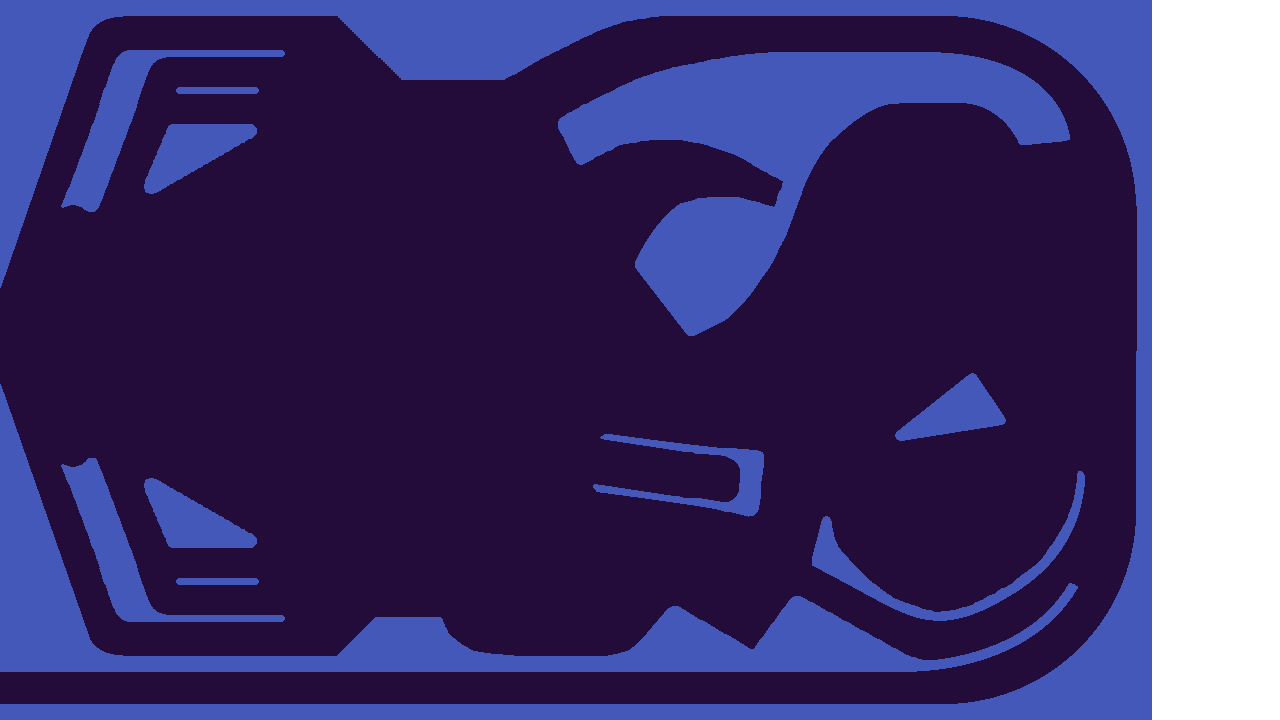
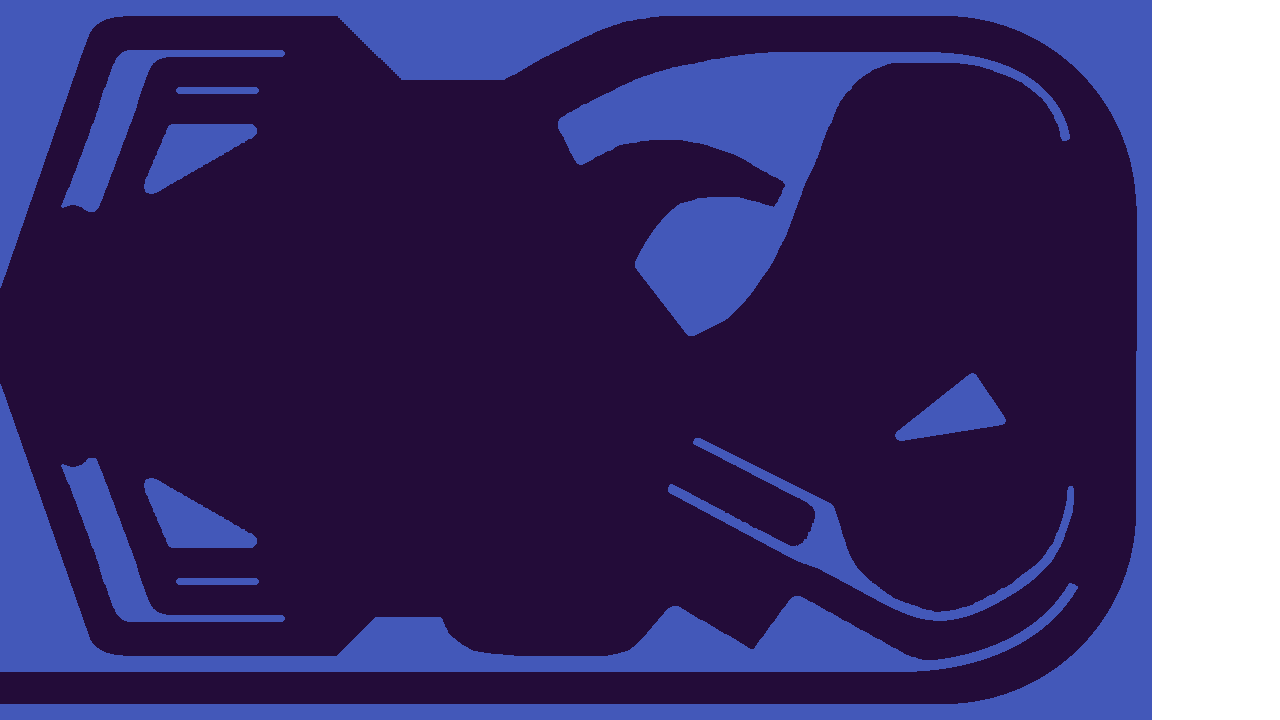
move right ramp to better location

diff --git a/games/pinball/source/layer.h b/games/pinball/source/layer.h
@@ -30,10 +30,9 @@ class Layer {
 
         // Main table layer
         vector<float> m_launchExitLock = {1068.0, 585.4, 1066.8, 586.9, 1067.2, 589.2, 1067.5, 591.5, 1087.9, 606.2, 1108.4, 621.0, 1110.6, 621.0, 1112.8, 621.0, 1114.0, 619.6, 1115.2, 618.1, 1114.8, 615.8, 1114.5, 613.5, 1094.1, 598.8, 1073.6, 584.0, 1071.4, 584.0, 1069.2, 584.0, 1068.0, 585.4};
-        vector<float> m_upperWall = {759.0, 53.1, 749.5, 53.9, 741.5, 55.0, 733.5, 56.0, 724.0, 57.6, 714.5, 59.1, 707.5, 60.6, 700.5, 62.1, 696.5, 63.0, 692.5, 63.9, 683.0, 65.5, 673.5, 67.2, 667.0, 69.2, 660.5, 71.1, 649.5, 74.6, 638.5, 78.2, 634.0, 80.2, 629.5, 82.2, 607.3, 93.1, 585.2, 104.0, 584.2, 104.0, 580.9, 105.8, 578.5, 107.7, 574.0, 110.0, 569.5, 112.4, 564.4, 115.7, 559.2, 119.0, 558.6, 120.6, 558.0, 122.2, 558.0, 125.4, 558.0, 128.6, 560.8, 133.1, 563.6, 137.5, 567.0, 145.0, 570.4, 152.5, 573.7, 158.2, 577.1, 164.0, 579.5, 164.6, 581.9, 165.2, 588.2, 161.7, 594.5, 158.2, 601.5, 154.8, 608.5, 151.3, 611.0, 150.1, 613.5, 149.0, 616.6, 147.0, 619.7, 145.0, 629.1, 143.5, 638.5, 142.0, 646.4, 140.9, 654.2, 139.8, 669.9, 140.3, 685.5, 140.7, 694.4, 142.4, 703.3, 144.2, 718.9, 149.4, 734.5, 154.7, 740.0, 157.5, 745.5, 160.3, 750.5, 163.6, 755.5, 166.8, 762.0, 170.4, 768.5, 174.0, 775.7, 177.6, 782.9, 181.2, 782.3, 184.4, 781.7, 187.5, 779.3, 191.9, 777.0, 196.3, 777.0, 198.2, 777.0, 200.1, 775.6, 203.5, 774.1, 206.9, 767.3, 204.9, 760.5, 202.9, 749.1, 200.0, 737.8, 197.0, 723.6, 197.1, 709.5, 197.1, 703.0, 198.0, 696.5, 198.9, 688.1, 201.3, 679.7, 203.6, 673.5, 208.7, 667.3, 213.8, 661.2, 220.9, 655.1, 227.9, 650.1, 235.3, 645.1, 242.8, 640.1, 252.2, 635.0, 261.7, 635.0, 264.6, 635.0, 267.5, 661.3, 301.5, 687.5, 335.5, 690.7, 335.8, 693.9, 336.1, 710.8, 327.6, 727.7, 319.0, 738.2, 308.2, 748.6, 297.4, 753.5, 290.4, 758.3, 283.5, 764.4, 275.0, 770.5, 266.5, 778.3, 251.0, 786.2, 235.5, 794.1, 214.0, 802.1, 192.5, 803.7, 188.0, 805.2, 183.5, 810.9, 172.5, 816.5, 161.5, 821.5, 154.0, 826.5, 146.6, 832.5, 140.6, 838.5, 134.7, 846.5, 128.0, 854.5, 121.3, 860.5, 117.3, 866.5, 113.3, 872.5, 110.2, 878.5, 107.2, 884.0, 105.5, 889.5, 103.7, 927.0, 103.3, 964.5, 102.8, 972.0, 104.4, 979.5, 106.0, 986.5, 109.5, 993.5, 112.9, 999.2, 117.5, 1004.9, 122.1, 1010.0, 128.8, 1015.0, 135.5, 1017.1, 139.8, 1019.3, 144.2, 1020.8, 144.8, 1022.3, 145.3, 1040.9, 143.6, 1059.5, 141.9, 1064.8, 140.9, 1070.0, 139.9, 1070.0, 137.8, 1070.0, 135.8, 1068.4, 129.6, 1066.8, 123.5, 1063.4, 116.2, 1060.0, 108.8, 1055.6, 102.7, 1051.2, 96.5, 1043.9, 89.4, 1036.5, 82.4, 1030.5, 78.3, 1024.5, 74.3, 1016.4, 70.2, 1008.3, 66.2, 997.8, 62.6, 987.2, 59.1, 977.4, 57.1, 967.5, 55.1, 959.5, 53.9, 951.5, 52.7, 860.0, 52.5, 768.5, 52.2, 759.0, 53.1};
-        vector<float> m_upperWall2 = {602.1, 435.8, 599.7, 437.7, 601.0, 438.5, 602.2, 439.3, 640.4, 445.1, 678.5, 451.0, 686.5, 452.0, 694.5, 453.0, 709.7, 454.4, 724.9, 455.8, 730.2, 458.7, 735.4, 461.5, 737.8, 465.0, 740.2, 468.5, 739.6, 479.9, 739.0, 491.4, 737.2, 494.4, 735.4, 497.5, 732.0, 499.7, 728.7, 502.0, 725.6, 502.0, 722.5, 502.0, 711.0, 500.0, 699.5, 498.0, 692.3, 498.0, 685.0, 498.0, 680.8, 497.0, 676.5, 496.0, 635.7, 490.0, 594.9, 484.0, 593.9, 484.5, 593.0, 485.1, 593.0, 486.3, 593.1, 487.5, 594.9, 489.8, 596.8, 492.0, 626.3, 496.0, 655.9, 500.0, 680.2, 503.5, 704.5, 507.1, 714.0, 509.1, 723.5, 511.2, 728.5, 512.0, 733.5, 512.8, 740.0, 514.5, 746.5, 516.2, 750.0, 516.1, 753.4, 516.0, 755.8, 513.6, 758.3, 511.2, 759.6, 504.3, 760.9, 497.5, 761.0, 490.5, 761.0, 483.5, 762.5, 474.5, 764.0, 465.5, 764.0, 460.0, 764.0, 454.5, 763.2, 453.3, 762.5, 452.1, 759.8, 451.1, 757.2, 450.1, 740.3, 449.0, 723.5, 447.9, 700.0, 445.4, 676.5, 442.9, 646.5, 438.9, 616.5, 435.0, 610.5, 434.4, 604.5, 433.9, 602.1, 435.8};
-        vector<float> m_upperWall3 = {1077.6, 473.2, 1077.2, 475.5, 1076.0, 485.0, 1074.8, 494.5, 1073.0, 501.0, 1071.2, 507.5, 1068.7, 514.2, 1066.2, 520.8, 1059.1, 532.7, 1051.9, 544.5, 1047.2, 551.2, 1042.5, 557.9, 1040.0, 560.6, 1037.5, 563.3, 1027.5, 570.7, 1017.5, 578.2, 1014.5, 581.0, 1011.5, 583.7, 1007.9, 585.8, 1004.3, 588.0, 1002.9, 588.0, 1001.5, 588.0, 998.0, 590.8, 994.5, 593.7, 991.2, 594.8, 987.9, 595.9, 985.2, 597.8, 982.5, 599.7, 979.0, 601.0, 975.5, 602.3, 974.0, 603.6, 972.5, 604.9, 964.5, 607.1, 956.5, 609.2, 952.0, 610.1, 947.5, 611.0, 940.5, 611.2, 933.5, 611.4, 927.5, 609.8, 921.5, 608.2, 910.5, 604.2, 899.5, 600.3, 896.8, 599.2, 894.1, 598.1, 887.3, 593.3, 880.5, 588.6, 878.0, 586.3, 875.5, 584.0, 865.8, 576.2, 857.7, 568.5, 848.4, 558.2, 839.1, 547.9, 837.0, 543.2, 834.9, 538.5, 833.3, 530.5, 831.7, 522.5, 830.8, 519.8, 829.8, 517.1, 828.0, 516.5, 826.3, 516.0, 824.7, 516.5, 823.2, 517.1, 822.1, 519.8, 821.1, 522.5, 816.5, 540.1, 812.0, 557.8, 812.0, 561.6, 812.0, 565.5, 818.3, 568.7, 824.5, 572.0, 857.8, 589.9, 891.1, 607.8, 901.2, 612.0, 911.2, 616.1, 918.8, 618.2, 926.5, 620.3, 939.5, 620.3, 952.5, 620.3, 962.0, 617.7, 971.5, 615.2, 980.1, 611.6, 988.6, 608.0, 999.6, 601.9, 1010.5, 595.8, 1019.0, 590.2, 1027.4, 584.6, 1036.2, 577.2, 1045.0, 569.9, 1051.5, 562.2, 1058.1, 554.5, 1062.7, 547.5, 1067.3, 540.6, 1072.1, 530.5, 1076.9, 520.5, 1079.3, 512.0, 1081.8, 503.5, 1083.4, 494.1, 1085.0, 484.6, 1085.0, 480.0, 1085.0, 475.4, 1083.4, 473.2, 1081.9, 471.0, 1080.0, 471.0, 1078.0, 471.0, 1077.6, 473.2};
-        vector<float> m_upperWall4 = {968.9, 374.8, 966.3, 376.5, 931.2, 404.4, 896.0, 432.3, 895.5, 434.1, 894.9, 435.9, 896.0, 438.0, 897.1, 440.0, 899.3, 440.5, 901.5, 441.1, 951.9, 433.0, 1002.2, 425.0, 1004.4, 423.4, 1006.0, 421.9, 1006.0, 420.4, 1006.0, 419.0, 991.4, 397.2, 976.8, 375.5, 975.2, 374.2, 973.6, 373.0, 972.6, 373.0, 971.5, 373.0, 968.9, 374.8};
+        vector<float> m_upperWall = {759.0, 53.1, 749.5, 53.9, 741.5, 55.0, 733.5, 56.0, 724.0, 57.6, 714.5, 59.1, 707.5, 60.6, 700.5, 62.1, 696.5, 63.0, 692.5, 63.9, 683.0, 65.5, 673.5, 67.2, 667.0, 69.2, 660.5, 71.1, 649.5, 74.6, 638.5, 78.2, 634.0, 80.2, 629.5, 82.2, 607.3, 93.1, 585.2, 104.0, 584.2, 104.0, 580.9, 105.8, 578.5, 107.7, 574.0, 110.0, 569.5, 112.4, 564.4, 115.7, 559.2, 119.0, 558.6, 120.6, 558.0, 122.2, 558.0, 125.4, 558.0, 128.6, 560.8, 133.1, 563.6, 137.5, 567.0, 145.0, 570.4, 152.5, 573.7, 158.2, 577.1, 164.0, 579.5, 164.6, 581.9, 165.2, 588.2, 161.7, 594.5, 158.2, 601.5, 154.8, 608.5, 151.3, 611.0, 150.1, 613.5, 149.0, 616.6, 147.0, 619.7, 145.0, 629.1, 143.5, 638.5, 142.0, 646.4, 140.9, 654.2, 139.8, 669.9, 140.3, 685.5, 140.7, 694.4, 142.4, 703.3, 144.2, 718.9, 149.4, 734.5, 154.7, 740.0, 157.5, 745.5, 160.3, 750.5, 163.6, 755.5, 166.8, 762.0, 170.4, 768.5, 174.0, 775.5, 177.5, 782.5, 181.0, 783.9, 183.1, 785.2, 185.3, 783.5, 188.9, 781.7, 192.5, 779.6, 197.0, 777.5, 201.5, 775.6, 204.1, 773.8, 206.8, 767.1, 204.9, 760.5, 202.9, 749.1, 200.0, 737.8, 197.0, 723.6, 197.1, 709.5, 197.1, 703.0, 198.0, 696.5, 198.9, 688.1, 201.3, 679.7, 203.6, 673.5, 208.7, 667.3, 213.8, 661.2, 220.9, 655.1, 227.9, 650.1, 235.3, 645.1, 242.8, 640.1, 252.2, 635.0, 261.7, 635.0, 264.6, 635.0, 267.5, 661.3, 301.5, 687.5, 335.5, 690.7, 335.8, 693.9, 336.1, 710.8, 327.6, 727.7, 319.0, 738.2, 308.2, 748.6, 297.4, 753.5, 290.4, 758.3, 283.5, 764.4, 275.0, 770.5, 266.5, 778.3, 251.0, 786.2, 235.5, 794.0, 214.5, 801.8, 193.5, 802.5, 191.0, 803.2, 188.5, 809.5, 175.0, 815.8, 161.5, 817.3, 158.0, 818.8, 154.5, 820.9, 148.0, 823.0, 141.5, 825.7, 134.5, 828.3, 127.5, 830.0, 125.0, 831.7, 122.5, 833.0, 118.5, 834.3, 114.5, 837.2, 108.2, 840.1, 101.9, 843.6, 97.0, 847.0, 92.2, 849.5, 90.6, 852.0, 89.0, 852.0, 87.7, 852.0, 86.4, 855.8, 82.8, 859.5, 79.2, 866.2, 74.6, 872.9, 70.1, 880.7, 66.8, 888.5, 63.6, 922.3, 63.2, 956.1, 62.9, 967.1, 64.4, 978.0, 65.9, 985.2, 68.1, 992.5, 70.3, 993.5, 71.0, 994.5, 71.7, 1002.2, 74.3, 1009.8, 77.0, 1015.7, 79.8, 1021.5, 82.5, 1029.1, 88.3, 1036.7, 94.0, 1040.7, 97.9, 1044.7, 101.7, 1049.4, 108.9, 1054.0, 116.1, 1054.0, 117.3, 1054.0, 118.5, 1056.1, 121.9, 1058.2, 125.3, 1059.5, 131.4, 1060.8, 137.5, 1061.5, 139.2, 1062.2, 141.0, 1064.4, 141.0, 1066.6, 141.0, 1068.5, 139.6, 1070.4, 138.3, 1069.1, 132.4, 1067.8, 126.5, 1064.7, 119.1, 1061.7, 111.7, 1056.9, 104.6, 1052.2, 97.5, 1044.3, 89.9, 1036.5, 82.3, 1030.5, 78.3, 1024.5, 74.3, 1016.4, 70.2, 1008.3, 66.2, 997.8, 62.6, 987.2, 59.1, 977.4, 57.1, 967.5, 55.1, 959.5, 53.9, 951.5, 52.7, 860.0, 52.5, 768.5, 52.2, 759.0, 53.1};
+        vector<float> m_upperWall2 = {693.8, 440.5, 692.7, 443.1, 693.6, 443.9, 694.5, 444.7, 722.5, 459.0, 750.5, 473.3, 751.5, 474.0, 752.5, 474.7, 779.5, 488.5, 806.5, 502.3, 809.7, 504.9, 812.9, 507.5, 814.1, 510.3, 815.3, 513.1, 814.6, 517.7, 814.0, 522.4, 813.1, 522.9, 812.2, 523.5, 811.5, 527.3, 810.7, 531.2, 809.5, 531.6, 808.2, 532.1, 807.6, 535.6, 806.9, 539.0, 805.5, 539.0, 804.1, 539.0, 803.5, 540.8, 803.0, 542.7, 800.2, 544.0, 797.5, 545.4, 794.3, 545.7, 791.0, 546.1, 773.5, 537.1, 756.0, 528.0, 754.8, 528.0, 753.5, 527.9, 749.6, 525.0, 745.6, 522.0, 743.9, 522.0, 742.2, 522.0, 741.0, 520.5, 739.8, 519.0, 738.7, 519.0, 737.7, 519.0, 732.8, 516.0, 728.0, 513.0, 726.9, 513.0, 725.9, 513.0, 724.7, 511.9, 723.5, 510.8, 707.5, 502.4, 691.5, 494.0, 681.2, 488.7, 670.9, 483.5, 669.4, 485.5, 667.9, 487.5, 668.2, 490.0, 668.5, 492.5, 698.0, 508.3, 727.5, 524.1, 762.0, 542.5, 796.5, 561.0, 807.5, 564.9, 818.5, 568.8, 837.5, 579.0, 856.5, 589.2, 874.0, 598.6, 891.5, 607.9, 901.3, 612.0, 911.1, 616.1, 918.8, 618.2, 926.5, 620.3, 939.5, 620.3, 952.5, 620.3, 962.0, 617.7, 971.5, 615.2, 980.1, 611.6, 988.6, 608.0, 999.6, 601.9, 1010.5, 595.8, 1020.5, 589.2, 1030.5, 582.5, 1040.8, 572.6, 1051.1, 562.6, 1055.3, 555.6, 1059.4, 548.5, 1061.3, 544.7, 1063.1, 540.9, 1068.1, 526.2, 1073.0, 511.5, 1073.7, 501.4, 1074.3, 491.3, 1073.6, 488.6, 1073.0, 486.0, 1071.0, 486.0, 1069.0, 486.0, 1068.0, 488.6, 1067.0, 491.1, 1067.0, 495.3, 1067.0, 499.5, 1064.6, 509.5, 1062.1, 519.5, 1060.1, 525.4, 1058.0, 531.3, 1057.1, 532.4, 1056.3, 533.5, 1054.8, 538.1, 1053.2, 542.6, 1049.9, 547.4, 1046.5, 552.1, 1042.5, 557.3, 1038.4, 562.5, 1030.0, 568.8, 1021.5, 575.2, 1016.5, 579.4, 1011.5, 583.6, 1007.9, 585.8, 1004.3, 588.0, 1002.9, 588.0, 1001.5, 588.0, 998.0, 590.8, 994.5, 593.7, 991.2, 594.8, 987.9, 595.9, 985.2, 597.8, 982.5, 599.7, 979.0, 601.0, 975.5, 602.3, 974.0, 603.6, 972.5, 604.9, 964.5, 607.1, 956.5, 609.2, 952.0, 610.1, 947.5, 611.0, 940.5, 611.2, 933.5, 611.4, 927.5, 609.8, 921.5, 608.2, 910.5, 604.2, 899.5, 600.3, 896.8, 599.2, 894.1, 598.1, 887.3, 593.3, 880.5, 588.6, 878.0, 586.3, 875.5, 584.0, 865.7, 576.1, 857.4, 568.1, 853.3, 560.8, 849.2, 553.5, 845.7, 543.0, 842.3, 532.5, 838.5, 520.5, 834.8, 508.5, 833.4, 506.2, 831.9, 504.0, 766.0, 471.0, 700.0, 438.0, 697.5, 438.0, 695.0, 438.0, 693.8, 440.5};
+        vector<float> m_upperWall3 = {968.9, 374.8, 966.3, 376.5, 931.2, 404.4, 896.0, 432.3, 895.5, 434.1, 894.9, 435.9, 896.0, 438.0, 897.1, 440.0, 899.3, 440.5, 901.5, 441.1, 951.9, 433.0, 1002.2, 425.0, 1004.4, 423.4, 1006.0, 421.9, 1006.0, 420.4, 1006.0, 419.0, 991.4, 397.2, 976.8, 375.5, 975.2, 374.2, 973.6, 373.0, 972.6, 373.0, 971.5, 373.0, 968.9, 374.8};
         vector<float> m_leftSlide = {125.0, 51.1, 122.5, 52.1, 119.7, 54.8, 116.9, 57.5, 114.5, 62.1, 112.2, 66.7, 108.9, 76.6, 105.7, 86.5, 104.4, 88.5, 103.2, 90.5, 101.5, 96.5, 99.8, 102.5, 99.5, 104.2, 99.1, 105.8, 96.4, 114.2, 93.7, 122.5, 92.8, 123.7, 91.9, 124.8, 89.5, 132.2, 87.2, 139.5, 83.5, 149.0, 79.9, 158.5, 77.5, 165.0, 75.1, 171.5, 72.6, 178.5, 70.0, 185.5, 68.8, 187.5, 67.7, 189.5, 64.3, 198.0, 61.0, 206.4, 61.8, 207.2, 62.6, 208.0, 67.5, 206.3, 72.4, 204.7, 76.6, 205.8, 80.8, 206.9, 84.6, 209.5, 88.3, 212.0, 91.5, 212.0, 94.7, 212.0, 96.7, 209.7, 98.8, 207.5, 100.8, 202.5, 102.9, 197.5, 106.5, 188.0, 110.0, 178.5, 112.5, 172.0, 115.0, 165.5, 118.5, 156.0, 122.0, 146.5, 124.5, 140.0, 127.0, 133.5, 130.5, 124.3, 134.0, 115.0, 136.1, 108.3, 138.2, 101.5, 142.2, 89.5, 146.3, 77.5, 149.0, 71.4, 151.7, 65.3, 154.1, 63.1, 156.5, 60.8, 160.0, 59.1, 163.5, 57.5, 223.4, 57.0, 283.3, 56.5, 284.3, 54.8, 285.4, 53.2, 284.1, 51.6, 282.8, 50.0, 205.1, 50.1, 127.5, 50.1, 125.0, 51.1};
         vector<float> m_rightSlide = {85.2, 461.4, 82.0, 464.8, 77.4, 466.0, 72.8, 467.3, 67.7, 465.7, 62.6, 464.0, 61.8, 464.8, 61.0, 465.6, 64.3, 474.0, 67.7, 482.5, 68.8, 484.5, 70.0, 486.5, 72.6, 493.5, 75.1, 500.5, 77.5, 507.0, 79.9, 513.5, 83.5, 523.0, 87.2, 532.5, 89.5, 539.8, 91.9, 547.2, 92.8, 548.3, 93.7, 549.5, 96.4, 557.8, 99.1, 566.2, 99.5, 567.8, 99.8, 569.5, 101.5, 575.5, 103.2, 581.5, 104.4, 583.5, 105.7, 585.5, 108.9, 595.4, 112.2, 605.3, 114.5, 609.9, 116.9, 614.5, 119.7, 617.2, 122.5, 619.9, 125.3, 620.9, 128.1, 622.0, 205.4, 622.0, 282.8, 622.0, 284.1, 620.4, 285.4, 618.8, 284.3, 617.2, 283.3, 615.5, 223.4, 615.0, 163.5, 614.5, 160.0, 612.9, 156.5, 611.2, 154.1, 608.9, 151.7, 606.7, 149.0, 600.6, 146.3, 594.5, 142.2, 582.5, 138.2, 570.5, 136.1, 563.7, 134.0, 557.0, 130.5, 547.7, 127.0, 538.5, 124.5, 532.0, 122.0, 525.5, 118.5, 516.0, 115.0, 506.5, 112.5, 500.0, 110.0, 493.5, 106.5, 484.0, 102.9, 474.5, 99.6, 466.5, 96.3, 458.5, 92.4, 458.2, 88.5, 458.0, 85.2, 461.4};
         vector<float> m_leftSlideLine = {176.9, 88.6, 175.6, 90.2, 176.7, 91.8, 177.7, 93.5, 217.5, 93.5, 257.3, 93.5, 258.3, 91.8, 259.4, 90.2, 258.1, 88.6, 256.8, 87.0, 217.5, 87.0, 178.2, 87.0, 176.9, 88.6};
@@ -41,14 +40,14 @@ class Layer {
         vector<float> m_leftBumper = {169.9, 125.0, 168.3, 126.0, 167.0, 129.2, 165.8, 132.5, 164.0, 136.5, 162.2, 140.5, 159.5, 147.0, 156.7, 153.5, 155.0, 157.5, 153.2, 161.5, 150.6, 168.0, 147.9, 174.5, 146.3, 177.4, 144.8, 180.2, 144.6, 185.6, 144.5, 190.9, 145.8, 192.2, 147.1, 193.5, 151.3, 193.5, 155.5, 193.5, 163.0, 189.0, 170.5, 184.5, 173.0, 183.1, 175.5, 181.7, 179.0, 179.8, 182.5, 177.9, 185.5, 176.1, 188.5, 174.3, 193.0, 171.6, 197.5, 168.9, 200.3, 167.9, 203.0, 166.8, 205.8, 164.1, 208.5, 163.1, 213.5, 160.0, 218.5, 156.9, 221.3, 155.9, 224.0, 154.8, 226.3, 152.5, 228.5, 151.8, 231.5, 149.5, 234.5, 147.3, 236.7, 146.6, 238.8, 145.9, 240.0, 144.5, 241.2, 143.0, 242.7, 143.0, 244.1, 143.0, 246.2, 141.0, 248.4, 139.0, 249.9, 139.0, 251.4, 139.0, 254.2, 136.3, 257.0, 133.6, 257.0, 131.0, 257.0, 128.3, 254.7, 126.2, 252.4, 124.0, 211.9, 124.0, 171.5, 124.1, 169.9, 125.0};
         vector<float> m_rightBumper = {147.4, 478.9, 145.3, 479.8, 144.6, 482.5, 143.9, 485.1, 144.6, 488.8, 145.3, 492.5, 146.6, 495.0, 147.9, 497.5, 150.6, 504.0, 153.2, 510.5, 155.0, 514.5, 156.7, 518.5, 159.5, 525.0, 162.2, 531.5, 164.0, 535.5, 165.8, 539.5, 167.0, 542.8, 168.3, 546.1, 170.1, 547.0, 171.9, 548.0, 212.3, 548.0, 252.7, 548.0, 254.8, 545.7, 257.0, 543.4, 257.0, 541.0, 257.0, 538.6, 254.3, 535.8, 251.6, 533.0, 250.0, 533.0, 248.4, 533.0, 246.2, 531.0, 244.1, 529.0, 242.7, 529.0, 241.2, 529.0, 240.0, 527.5, 238.8, 526.1, 236.7, 525.4, 234.5, 524.7, 231.5, 522.5, 228.5, 520.2, 226.3, 519.5, 224.0, 518.9, 221.3, 516.1, 218.5, 515.1, 213.5, 512.0, 208.5, 508.9, 205.8, 507.9, 203.0, 506.8, 200.3, 504.1, 197.5, 503.1, 193.0, 500.4, 188.5, 497.7, 185.5, 495.9, 182.5, 494.1, 179.0, 492.2, 175.5, 490.3, 173.0, 488.9, 170.5, 487.5, 163.4, 483.2, 156.2, 478.9, 152.9, 478.5, 149.5, 478.0, 147.4, 478.9};
         vector<vector<float>> m_layer1ShapeData = {
-            m_tubeRight, m_tubeLeft, m_launchExitLock, m_upperWall, m_upperWall2, m_upperWall3, m_upperWall4, m_leftSlide, m_rightSlide, m_rightSlideLine, m_leftSlideLine, m_leftBumper, m_rightBumper
+            m_tubeRight, m_tubeLeft, m_launchExitLock, m_upperWall, m_upperWall2, m_upperWall3, m_leftSlide, m_rightSlide, m_rightSlideLine, m_leftSlideLine, m_leftBumper, m_rightBumper
         };
 
         // Layer 2 shapes.
-        vector<float> m_leftInnerRail = {317.0, 64.5, 294.5, 87.0, 266.5, 87.0, 238.4, 87.0, 237.2, 88.2, 236.0, 89.4, 236.0, 91.5, 236.0, 93.6, 237.2, 94.8, 238.4, 96.0, 268.5, 96.0, 298.5, 96.0, 321.0, 73.4, 343.5, 50.9, 620.5, 51.1, 897.5, 51.3, 915.5, 52.1, 933.5, 53.0, 946.0, 54.6, 958.5, 56.1, 969.9, 58.6, 981.3, 61.2, 991.4, 64.7, 1001.5, 68.2, 1009.7, 72.5, 1018.0, 76.9, 1023.9, 81.4, 1029.8, 85.9, 1035.4, 91.7, 1041.1, 97.5, 1045.4, 104.0, 1049.8, 110.5, 1052.9, 116.8, 1056.1, 123.2, 1059.0, 132.0, 1061.9, 140.9, 1063.9, 151.2, 1065.9, 161.5, 1067.1, 174.9, 1068.3, 188.4, 1067.8, 196.5, 1067.2, 204.7, 1065.2, 209.3, 1063.2, 213.9, 1059.1, 218.2, 1055.1, 222.6, 1049.6, 225.3, 1044.1, 228.0, 1037.8, 229.8, 1031.5, 231.5, 1008.5, 231.4, 985.5, 231.3, 970.8, 228.7, 956.1, 226.1, 943.3, 223.1, 930.5, 220.1, 917.5, 216.5, 904.5, 213.0, 885.5, 206.9, 866.5, 200.8, 848.5, 194.3, 830.5, 187.8, 808.5, 179.0, 786.5, 170.2, 774.5, 165.0, 762.5, 159.9, 760.5, 157.5, 758.5, 155.2, 752.7, 152.6, 746.9, 150.0, 745.1, 150.0, 743.2, 150.0, 742.1, 151.4, 740.9, 152.9, 741.2, 155.7, 741.5, 158.5, 747.7, 161.5, 753.9, 164.5, 756.2, 166.8, 758.6, 169.0, 768.1, 173.1, 777.5, 177.2, 794.0, 184.0, 810.5, 190.7, 827.0, 197.0, 843.5, 203.2, 860.0, 209.0, 876.5, 214.8, 895.0, 220.3, 913.5, 225.9, 927.5, 229.5, 941.5, 233.1, 956.2, 236.0, 970.9, 239.0, 983.2, 240.5, 995.4, 242.0, 1011.5, 242.0, 1027.5, 242.0, 1036.8, 240.1, 1046.1, 238.1, 1053.5, 234.5, 1060.9, 230.8, 1066.0, 225.4, 1071.1, 220.0, 1073.5, 214.7, 1076.0, 209.4, 1077.0, 204.0, 1078.0, 198.7, 1078.0, 191.6, 1078.0, 184.5, 1077.0, 173.0, 1075.9, 161.5, 1073.9, 150.5, 1071.9, 139.6, 1068.8, 130.0, 1065.8, 120.5, 1061.3, 111.5, 1056.8, 102.5, 1052.3, 96.2, 1047.8, 89.8, 1042.1, 84.1, 1036.5, 78.4, 1029.7, 73.2, 1022.8, 68.1, 1013.2, 63.2, 1003.5, 58.2, 996.2, 55.6, 988.9, 53.0, 979.1, 50.5, 969.3, 48.0, 956.9, 46.1, 944.5, 44.1, 933.0, 43.0, 921.5, 42.0, 630.5, 42.0, 339.5, 42.0, 317.0, 64.5};
-        vector<float> m_leftOuterRail = {833.5, 10.1, 757.5, 10.7, 536.0, 10.9, 314.5, 11.0, 296.0, 29.5, 277.5, 48.0, 258.0, 48.0, 238.4, 48.0, 237.2, 49.2, 236.0, 50.4, 236.0, 52.5, 236.0, 54.6, 237.2, 55.8, 238.4, 57.0, 259.9, 57.0, 281.5, 57.0, 300.0, 38.6, 318.5, 20.1, 644.0, 19.9, 969.5, 19.8, 980.0, 21.9, 990.5, 24.1, 1000.7, 27.5, 1010.8, 30.9, 1018.7, 34.9, 1026.6, 38.8, 1036.1, 45.1, 1045.5, 51.4, 1055.0, 61.0, 1064.5, 70.5, 1070.8, 79.8, 1077.2, 89.1, 1082.5, 99.8, 1087.8, 110.5, 1091.3, 120.6, 1094.8, 130.7, 1097.5, 141.4, 1100.1, 152.2, 1102.6, 168.7, 1105.0, 185.2, 1105.2, 193.4, 1105.4, 201.5, 1104.3, 210.0, 1103.1, 218.5, 1100.5, 227.0, 1097.8, 235.5, 1096.1, 237.5, 1094.4, 239.5, 1091.0, 244.5, 1087.6, 249.5, 1081.2, 254.9, 1074.7, 260.3, 1070.1, 262.1, 1065.5, 263.9, 1057.0, 266.6, 1048.5, 269.3, 1028.0, 270.0, 1007.5, 270.8, 992.5, 270.0, 977.5, 269.2, 962.0, 266.1, 946.5, 262.9, 930.8, 259.0, 915.1, 255.0, 899.7, 250.5, 884.3, 246.1, 865.4, 239.9, 846.5, 233.8, 796.5, 216.5, 746.5, 199.2, 736.1, 197.9, 725.8, 196.6, 724.1, 197.7, 722.5, 198.7, 722.2, 200.9, 721.8, 203.1, 722.9, 204.4, 724.0, 205.7, 733.8, 207.4, 743.5, 209.0, 767.0, 216.9, 790.5, 224.8, 822.5, 236.0, 854.5, 247.1, 875.0, 253.5, 895.5, 259.8, 908.5, 263.5, 921.5, 267.2, 935.5, 270.5, 949.5, 273.8, 963.0, 276.6, 976.5, 279.3, 1011.0, 279.8, 1045.5, 280.2, 1055.6, 277.7, 1065.6, 275.1, 1071.2, 273.0, 1076.8, 270.9, 1084.6, 265.7, 1092.4, 260.5, 1099.6, 249.0, 1106.8, 237.5, 1108.5, 231.0, 1110.3, 224.5, 1111.6, 218.5, 1113.0, 212.5, 1113.0, 190.9, 1113.0, 169.3, 1110.9, 157.0, 1108.8, 144.8, 1105.5, 132.6, 1102.2, 120.4, 1098.4, 111.0, 1094.7, 101.5, 1090.9, 93.9, 1087.1, 86.3, 1079.9, 75.4, 1072.6, 64.5, 1062.0, 54.0, 1051.5, 43.5, 1042.5, 37.4, 1033.5, 31.2, 1024.4, 26.7, 1015.4, 22.1, 1007.4, 19.2, 999.5, 16.3, 990.7, 14.1, 981.9, 11.9, 971.7, 10.5, 961.5, 9.0, 935.5, 9.2, 909.5, 9.4, 833.5, 10.1};
-        vector<float> m_rightOuterRail = {996.5, 347.7, 989.5, 349.2, 982.1, 352.6, 974.6, 356.0, 969.3, 360.2, 964.0, 364.3, 959.4, 370.4, 954.8, 376.5, 952.3, 381.4, 949.8, 386.3, 944.4, 401.7, 939.0, 417.1, 935.0, 427.3, 931.0, 437.5, 927.2, 442.9, 923.4, 448.4, 918.7, 451.6, 914.0, 454.9, 906.2, 456.7, 898.5, 458.5, 882.0, 458.3, 865.5, 458.2, 848.0, 456.6, 830.5, 454.9, 791.0, 450.5, 751.5, 446.1, 747.0, 445.1, 742.5, 444.0, 724.0, 443.0, 705.5, 442.0, 679.0, 440.5, 652.5, 439.0, 646.7, 438.4, 640.9, 437.8, 641.1, 438.6, 641.3, 439.5, 640.5, 441.3, 639.7, 443.2, 641.1, 444.5, 642.5, 445.8, 662.1, 448.4, 681.7, 451.0, 692.1, 451.0, 702.4, 451.0, 713.9, 452.1, 725.5, 453.2, 778.0, 459.0, 830.5, 464.9, 847.5, 466.6, 864.5, 468.2, 883.0, 468.2, 901.5, 468.3, 909.2, 466.2, 916.8, 464.1, 921.1, 461.9, 925.4, 459.7, 930.7, 454.3, 936.0, 448.9, 940.4, 439.7, 944.9, 430.5, 952.4, 409.1, 960.0, 387.7, 962.7, 383.1, 965.4, 378.5, 971.4, 372.2, 977.4, 365.9, 984.5, 362.4, 991.5, 359.0, 999.0, 357.4, 1006.5, 355.8, 1017.5, 356.3, 1028.5, 356.8, 1036.4, 358.9, 1044.3, 361.0, 1051.4, 364.4, 1058.5, 367.9, 1062.5, 371.0, 1066.5, 374.2, 1069.3, 378.2, 1072.0, 382.3, 1074.4, 389.9, 1076.8, 397.5, 1078.7, 408.5, 1080.5, 419.5, 1080.5, 451.5, 1080.5, 483.5, 1078.8, 492.5, 1077.1, 501.5, 1074.5, 510.5, 1071.9, 519.5, 1067.6, 528.5, 1063.3, 537.5, 1058.7, 544.5, 1054.1, 551.5, 1048.1, 558.5, 1042.1, 565.5, 1036.3, 570.6, 1030.4, 575.8, 1023.4, 581.0, 1016.5, 586.2, 1006.0, 592.4, 995.5, 598.7, 982.0, 605.4, 968.5, 612.2, 960.0, 615.6, 951.5, 619.1, 944.5, 622.5, 937.5, 625.8, 921.0, 632.1, 904.5, 638.3, 885.0, 644.7, 865.5, 651.1, 847.5, 655.5, 829.5, 659.9, 820.5, 661.4, 811.5, 663.0, 801.0, 663.9, 790.5, 664.7, 676.0, 663.9, 561.5, 663.1, 447.5, 663.1, 333.4, 663.0, 309.0, 638.5, 284.6, 614.0, 261.5, 614.0, 238.4, 614.0, 237.2, 615.2, 236.0, 616.4, 236.0, 618.5, 236.0, 620.6, 237.2, 621.8, 238.4, 623.0, 259.4, 623.0, 280.4, 623.0, 305.0, 647.5, 329.6, 672.0, 574.2, 672.0, 818.8, 672.0, 829.1, 670.0, 839.5, 667.9, 853.3, 664.4, 867.1, 660.9, 887.3, 654.4, 907.5, 647.8, 924.5, 641.3, 941.5, 634.8, 959.0, 627.3, 976.5, 619.8, 993.5, 610.8, 1010.5, 601.8, 1020.4, 595.3, 1030.3, 588.7, 1039.2, 581.2, 1048.1, 573.7, 1055.1, 565.7, 1062.1, 557.6, 1066.5, 550.8, 1071.0, 544.0, 1075.4, 535.3, 1079.8, 526.5, 1082.8, 517.5, 1085.8, 508.5, 1087.4, 500.5, 1088.9, 492.5, 1090.0, 482.5, 1091.0, 472.5, 1091.2, 444.0, 1091.4, 415.5, 1089.6, 405.7, 1087.9, 396.0, 1085.9, 389.2, 1084.0, 382.5, 1078.5, 374.4, 1073.0, 366.4, 1068.2, 362.8, 1063.5, 359.2, 1058.0, 356.5, 1052.5, 353.7, 1045.5, 351.3, 1038.5, 348.9, 1030.1, 347.5, 1021.7, 346.0, 1012.6, 346.1, 1003.5, 346.2, 996.5, 347.7};
-        vector<float> m_rightInnerRail = {633.3, 491.2, 632.3, 492.5, 631.8, 495.2, 631.3, 498.0, 672.4, 505.0, 712.3, 512.0, 713.4, 512.8, 714.5, 513.7, 721.0, 515.9, 727.5, 518.2, 733.5, 521.8, 739.5, 525.4, 756.0, 536.6, 772.5, 547.7, 783.0, 554.2, 793.5, 560.7, 807.0, 568.2, 820.5, 575.7, 832.7, 582.1, 845.0, 588.5, 836.3, 596.4, 827.6, 602.9, 818.1, 607.9, 808.5, 612.9, 799.5, 615.9, 790.5, 618.9, 779.0, 621.0, 767.5, 623.2, 757.3, 624.3, 747.0, 625.4, 546.8, 627.0, 346.6, 627.0, 321.5, 602.0, 296.4, 577.0, 267.4, 577.0, 238.4, 577.0, 237.2, 578.2, 236.0, 579.4, 236.0, 581.5, 236.0, 583.6, 237.2, 584.8, 238.4, 586.0, 265.4, 586.0, 292.4, 586.0, 317.5, 611.0, 342.6, 636.0, 486.5, 635.9, 630.5, 635.8, 697.0, 635.1, 763.5, 634.3, 770.5, 632.7, 777.5, 631.2, 785.0, 630.0, 792.5, 628.8, 801.2, 625.9, 810.0, 623.1, 818.2, 619.1, 826.5, 615.1, 835.5, 609.2, 844.5, 603.2, 851.7, 597.1, 858.9, 591.0, 859.5, 589.0, 860.2, 586.9, 859.0, 585.5, 857.8, 584.0, 836.6, 572.9, 815.5, 561.7, 801.0, 553.2, 786.5, 544.8, 763.0, 529.2, 739.5, 513.6, 739.0, 513.0, 738.5, 512.3, 729.9, 508.7, 721.2, 505.0, 706.5, 502.5, 691.8, 500.0, 691.1, 499.5, 690.3, 499.1, 663.2, 494.5, 636.1, 490.0, 634.2, 490.0, 633.3, 491.2};
+        vector<float> m_leftInnerRail = {317.5, 64.0, 295.5, 86.0, 267.3, 86.0, 239.1, 86.0, 237.6, 87.6, 236.0, 89.1, 236.0, 90.5, 236.0, 91.9, 237.6, 93.4, 239.1, 95.0, 269.3, 95.0, 299.5, 95.0, 321.5, 72.9, 343.5, 50.9, 620.5, 51.1, 897.5, 51.3, 915.5, 52.1, 933.5, 53.0, 946.0, 54.6, 958.5, 56.1, 969.9, 58.6, 981.3, 61.2, 991.4, 64.7, 1001.5, 68.2, 1009.7, 72.5, 1018.0, 76.9, 1023.9, 81.4, 1029.8, 85.9, 1035.4, 91.7, 1041.1, 97.5, 1045.4, 104.0, 1049.8, 110.5, 1052.9, 116.8, 1056.1, 123.2, 1059.0, 132.0, 1061.9, 140.9, 1063.9, 151.2, 1065.9, 161.5, 1067.1, 174.9, 1068.3, 188.4, 1067.8, 196.5, 1067.2, 204.7, 1065.2, 209.3, 1063.2, 213.9, 1059.1, 218.2, 1055.1, 222.6, 1049.6, 225.3, 1044.1, 228.0, 1037.8, 229.8, 1031.5, 231.5, 1008.5, 231.4, 985.5, 231.3, 970.6, 228.7, 955.6, 226.0, 944.6, 223.4, 933.5, 220.8, 917.0, 216.3, 900.5, 211.9, 874.0, 203.0, 847.5, 194.2, 827.5, 186.5, 807.5, 178.8, 789.5, 171.3, 771.5, 163.8, 766.3, 161.4, 761.2, 158.9, 760.6, 157.5, 760.1, 156.0, 753.5, 153.0, 746.9, 150.0, 739.5, 147.5, 733.3, 145.1, 713.9, 139.5, 694.5, 133.9, 691.5, 134.2, 688.5, 134.5, 688.2, 137.1, 687.9, 139.7, 690.3, 141.3, 692.7, 142.9, 706.8, 146.4, 720.9, 149.9, 723.8, 151.4, 726.8, 152.9, 733.1, 155.3, 739.5, 157.7, 746.5, 161.1, 753.5, 164.4, 756.0, 166.7, 758.6, 169.0, 768.0, 173.1, 777.5, 177.2, 794.0, 184.0, 810.5, 190.7, 827.0, 197.0, 843.5, 203.2, 860.0, 209.0, 876.5, 214.8, 895.0, 220.3, 913.5, 225.9, 927.5, 229.5, 941.5, 233.1, 956.2, 236.0, 970.9, 239.0, 983.2, 240.5, 995.4, 242.0, 1011.5, 242.0, 1027.5, 242.0, 1036.8, 240.1, 1046.1, 238.1, 1053.5, 234.5, 1060.9, 230.8, 1066.0, 225.4, 1071.1, 220.0, 1073.5, 214.7, 1076.0, 209.4, 1077.0, 204.0, 1078.0, 198.7, 1078.0, 191.6, 1078.0, 184.5, 1077.0, 173.0, 1075.9, 161.5, 1073.9, 150.5, 1071.9, 139.6, 1068.8, 130.0, 1065.8, 120.5, 1061.3, 111.5, 1056.8, 102.5, 1052.3, 96.2, 1047.8, 89.8, 1042.1, 84.1, 1036.5, 78.4, 1029.7, 73.2, 1022.8, 68.1, 1013.2, 63.2, 1003.5, 58.2, 996.2, 55.6, 988.9, 53.0, 979.1, 50.5, 969.3, 48.0, 956.9, 46.1, 944.5, 44.1, 933.0, 43.0, 921.5, 42.0, 630.5, 42.0, 339.5, 42.0, 317.5, 64.0};
+        vector<float> m_leftOuterRail = {833.5, 10.1, 757.5, 10.7, 537.5, 10.9, 317.5, 11.0, 298.5, 30.0, 279.5, 49.0, 258.5, 49.0, 237.4, 49.0, 236.2, 50.2, 235.0, 51.4, 235.0, 53.5, 235.0, 55.6, 236.2, 56.8, 237.4, 58.0, 260.4, 58.0, 283.5, 58.0, 302.5, 39.1, 321.5, 20.1, 645.5, 19.9, 969.5, 19.8, 980.0, 21.9, 990.5, 24.1, 1000.7, 27.5, 1010.8, 30.9, 1018.7, 34.9, 1026.6, 38.8, 1036.1, 45.1, 1045.5, 51.4, 1055.0, 61.0, 1064.5, 70.5, 1070.8, 79.8, 1077.2, 89.1, 1082.5, 99.8, 1087.8, 110.5, 1091.3, 120.6, 1094.8, 130.7, 1097.5, 141.4, 1100.1, 152.2, 1102.6, 168.7, 1105.0, 185.2, 1105.2, 193.4, 1105.4, 201.5, 1104.3, 210.0, 1103.1, 218.5, 1100.5, 227.0, 1097.8, 235.5, 1096.1, 237.5, 1094.4, 239.5, 1091.0, 244.5, 1087.6, 249.5, 1081.2, 254.9, 1074.7, 260.3, 1070.1, 262.1, 1065.5, 263.9, 1057.0, 266.6, 1048.5, 269.3, 1028.0, 270.0, 1007.5, 270.8, 992.5, 270.0, 977.5, 269.2, 962.0, 266.1, 946.5, 262.9, 930.8, 259.0, 915.1, 255.0, 899.7, 250.5, 884.3, 246.1, 865.4, 239.9, 846.5, 233.8, 796.5, 216.5, 746.5, 199.2, 737.9, 198.1, 729.4, 197.0, 718.4, 197.1, 707.5, 197.2, 702.0, 198.0, 696.5, 198.8, 692.0, 200.0, 687.6, 201.1, 686.2, 202.2, 684.9, 203.3, 685.2, 205.9, 685.5, 208.5, 690.2, 208.8, 694.9, 209.1, 698.2, 207.3, 701.5, 205.6, 713.5, 205.8, 725.5, 206.1, 734.5, 207.6, 743.5, 209.0, 767.0, 216.9, 790.5, 224.8, 822.5, 236.0, 854.5, 247.1, 875.0, 253.5, 895.5, 259.8, 908.5, 263.5, 921.5, 267.2, 935.5, 270.5, 949.5, 273.8, 963.0, 276.6, 976.5, 279.3, 1011.0, 279.8, 1045.5, 280.2, 1055.6, 277.7, 1065.6, 275.1, 1071.2, 273.0, 1076.8, 270.9, 1084.6, 265.7, 1092.4, 260.5, 1099.6, 249.0, 1106.8, 237.5, 1108.5, 231.0, 1110.3, 224.5, 1111.6, 218.5, 1113.0, 212.5, 1113.0, 190.9, 1113.0, 169.3, 1110.9, 157.0, 1108.8, 144.8, 1105.5, 132.6, 1102.2, 120.4, 1098.4, 111.0, 1094.7, 101.5, 1090.9, 93.9, 1087.1, 86.3, 1079.9, 75.4, 1072.6, 64.5, 1062.0, 54.0, 1051.5, 43.5, 1042.5, 37.4, 1033.5, 31.2, 1024.4, 26.7, 1015.4, 22.1, 1007.4, 19.2, 999.5, 16.3, 990.7, 14.1, 981.9, 11.9, 971.7, 10.5, 961.5, 9.0, 935.5, 9.2, 909.5, 9.4, 833.5, 10.1};
+        vector<float> m_rightOuterRail = {966.0, 423.0, 958.5, 424.0, 951.0, 426.6, 943.5, 429.2, 937.5, 432.7, 931.5, 436.2, 925.5, 441.0, 919.5, 445.8, 913.9, 451.7, 908.3, 457.5, 903.4, 463.5, 898.6, 469.5, 890.8, 481.5, 882.9, 493.5, 875.8, 507.7, 868.7, 522.0, 794.5, 485.4, 721.5, 448.9, 719.5, 449.2, 717.5, 449.5, 717.2, 452.2, 716.9, 455.0, 720.1, 456.9, 723.2, 458.8, 796.5, 495.4, 869.7, 532.0, 871.9, 532.0, 874.1, 532.0, 874.6, 530.5, 875.2, 529.0, 875.9, 529.4, 876.6, 529.9, 879.5, 523.2, 882.3, 516.5, 887.7, 506.2, 893.2, 496.0, 894.3, 494.7, 895.5, 493.5, 897.3, 490.0, 899.1, 486.5, 905.3, 477.7, 911.6, 469.0, 918.0, 461.9, 924.4, 454.7, 931.8, 448.8, 939.3, 442.9, 946.0, 439.5, 952.7, 436.1, 959.1, 434.4, 965.5, 432.7, 977.0, 432.7, 988.5, 432.7, 997.5, 435.4, 1006.5, 438.0, 1017.5, 443.4, 1028.5, 448.8, 1035.0, 453.8, 1041.5, 458.7, 1048.1, 465.8, 1054.8, 472.8, 1058.8, 480.8, 1062.8, 488.8, 1064.0, 496.0, 1065.2, 503.3, 1064.5, 509.3, 1063.9, 515.3, 1061.5, 522.9, 1059.0, 530.5, 1055.2, 537.1, 1051.3, 543.8, 1047.6, 548.6, 1043.9, 553.5, 1037.3, 560.8, 1030.7, 568.1, 1025.6, 571.9, 1020.5, 575.6, 1010.4, 581.8, 1000.4, 588.0, 988.9, 593.4, 977.5, 598.8, 968.3, 601.8, 959.2, 604.9, 950.3, 606.6, 941.5, 608.2, 930.5, 608.2, 919.5, 608.1, 913.5, 606.5, 907.5, 604.9, 902.4, 602.5, 897.3, 600.0, 894.9, 600.0, 892.5, 600.0, 889.7, 605.7, 886.9, 611.5, 884.7, 615.5, 882.4, 619.5, 880.5, 622.5, 878.6, 625.5, 875.4, 629.5, 872.2, 633.5, 871.6, 635.7, 870.9, 637.9, 864.7, 644.3, 858.5, 650.7, 851.5, 653.3, 844.5, 655.9, 836.0, 658.4, 827.5, 660.9, 813.5, 662.7, 799.5, 664.4, 779.5, 664.5, 759.5, 664.5, 546.3, 663.6, 333.1, 662.7, 308.9, 638.3, 284.6, 614.0, 261.5, 614.0, 238.4, 614.0, 237.2, 615.2, 236.0, 616.4, 236.0, 618.5, 236.0, 620.6, 237.2, 621.8, 238.4, 623.0, 259.4, 623.0, 280.4, 623.0, 305.0, 647.5, 329.6, 672.0, 572.6, 671.7, 815.5, 671.3, 822.1, 670.2, 828.8, 669.1, 837.1, 667.5, 845.5, 665.8, 851.0, 664.3, 856.5, 662.7, 860.0, 660.5, 863.5, 658.2, 866.5, 655.0, 869.5, 651.9, 873.4, 649.7, 877.2, 647.5, 882.9, 639.5, 888.7, 631.5, 891.7, 626.0, 894.7, 620.5, 895.3, 618.0, 895.9, 615.5, 897.2, 613.8, 898.5, 612.0, 906.0, 614.6, 913.5, 617.1, 922.5, 617.9, 931.5, 618.8, 940.8, 617.9, 950.2, 617.0, 958.6, 615.0, 967.0, 613.0, 976.7, 609.4, 986.5, 605.8, 999.0, 599.4, 1011.5, 593.1, 1022.6, 586.1, 1033.8, 579.0, 1042.1, 570.3, 1050.4, 561.5, 1056.3, 553.5, 1062.3, 545.5, 1066.6, 536.5, 1071.0, 527.5, 1072.7, 521.0, 1074.4, 514.5, 1074.4, 504.0, 1074.3, 493.5, 1071.7, 485.4, 1069.0, 477.2, 1064.2, 469.9, 1059.3, 462.5, 1053.8, 456.9, 1048.3, 451.3, 1042.4, 446.8, 1036.5, 442.3, 1029.4, 438.2, 1022.4, 434.0, 1013.6, 430.5, 1004.9, 426.9, 996.7, 425.0, 988.5, 423.0, 981.0, 422.6, 973.5, 422.1, 966.0, 423.0};
+        vector<float> m_rightInnerRail = {691.6, 497.5, 690.0, 499.1, 690.0, 500.4, 690.0, 501.6, 691.3, 503.2, 692.5, 504.7, 736.5, 528.0, 780.5, 551.3, 782.3, 553.1, 784.0, 555.0, 793.7, 560.6, 803.4, 566.3, 808.4, 568.2, 813.4, 570.1, 817.4, 572.5, 821.5, 574.8, 825.2, 575.9, 828.8, 577.1, 830.1, 578.7, 831.4, 580.2, 836.7, 582.5, 842.0, 584.9, 840.9, 587.7, 839.9, 590.5, 835.3, 596.5, 830.7, 602.5, 824.9, 608.2, 819.0, 613.8, 810.3, 618.5, 801.6, 623.2, 794.0, 624.7, 786.5, 626.2, 566.6, 626.7, 346.7, 627.2, 321.6, 602.1, 296.4, 577.0, 267.4, 577.0, 238.4, 577.0, 237.2, 578.2, 236.0, 579.4, 236.0, 581.5, 236.0, 583.6, 237.2, 584.8, 238.4, 586.0, 265.4, 586.0, 292.4, 586.0, 317.7, 611.2, 342.9, 636.3, 565.7, 635.7, 788.5, 635.0, 795.0, 634.0, 801.5, 633.0, 813.0, 627.3, 824.5, 621.7, 833.5, 612.6, 842.6, 603.5, 846.3, 597.4, 850.0, 591.2, 850.0, 589.8, 850.0, 588.4, 851.5, 586.4, 852.9, 584.5, 853.0, 583.0, 853.0, 581.5, 838.8, 574.0, 824.6, 566.5, 814.1, 560.7, 803.6, 554.9, 802.6, 553.6, 801.5, 552.3, 749.3, 524.6, 697.2, 496.9, 695.2, 496.4, 693.3, 495.8, 691.6, 497.5};
         vector<vector<float>> m_layer2ShapeData = {
             m_leftInnerRail, m_leftOuterRail, m_rightOuterRail, m_rightInnerRail
         };

diff --git a/games/pinball/source/ramp.h b/games/pinball/source/ramp.h
@@ -28,10 +28,10 @@ class Ramp {
         b2Fixture* m_fixture;
         int m_layerID;
         vector<float> m_launchTubeExitSensor = {1080.3, 555.2, 1078.3, 557.5, 1074.7, 563.0, 1071.1, 568.5, 1064.1, 575.6, 1057.0, 582.7, 1057.0, 585.2, 1057.0, 587.6, 1058.2, 588.8, 1059.4, 590.0, 1061.7, 590.0, 1064.0, 590.0, 1071.4, 582.6, 1078.8, 575.1, 1083.0, 569.0, 1087.1, 562.9, 1091.8, 565.6, 1096.5, 568.3, 1101.0, 570.8, 1105.5, 573.3, 1107.5, 574.4, 1109.5, 575.6, 1114.0, 578.4, 1118.5, 581.2, 1121.2, 583.1, 1123.9, 585.0, 1125.8, 585.0, 1127.6, 585.0, 1128.8, 583.8, 1130.0, 582.6, 1130.0, 580.4, 1130.0, 578.2, 1125.6, 574.6, 1121.1, 571.0, 1110.8, 564.8, 1100.5, 558.7, 1095.2, 555.9, 1090.0, 553.0, 1086.2, 553.0, 1082.3, 553.0, 1080.3, 555.2};
-        vector<float> m_ramp1 = {759.2, 162.2, 758.2, 163.5, 757.0, 168.0, 755.9, 172.5, 753.8, 179.0, 751.8, 185.5, 747.8, 194.2, 743.9, 203.0, 744.2, 206.6, 744.5, 210.3, 747.5, 212.0, 750.5, 213.6, 756.4, 214.8, 762.3, 216.0, 765.0, 216.0, 767.6, 216.0, 770.6, 213.2, 773.7, 210.5, 777.8, 201.5, 781.8, 192.5, 783.4, 186.4, 785.0, 180.2, 785.0, 176.6, 785.0, 173.0, 782.5, 170.9, 781.5, 168.8, 777.5, 166.8, 773.5, 164.7, 771.8, 163.9, 770.0, 163.0, 768.1, 163.0, 766.1, 163.0, 765.5, 162.0, 764.9, 161.0, 762.6, 161.0, 760.2, 161.0, 759.2, 162.2};
-        vector<float> m_ramp1Down = {737.6, 154.1, 735.8, 155.2, 733.0, 161.4, 730.3, 167.5, 729.6, 171.5, 728.9, 175.5, 727.3, 180.0, 725.6, 184.5, 724.4, 186.5, 723.2, 188.5, 721.5, 194.2, 719.9, 200.0, 720.4, 201.8, 721.0, 203.6, 724.6, 205.3, 728.1, 207.0, 732.0, 206.0, 735.9, 204.9, 736.9, 201.2, 737.9, 197.5, 738.5, 191.5, 739.2, 185.5, 743.1, 173.9, 747.0, 162.3, 747.0, 160.2, 747.0, 158.1, 744.5, 155.5, 741.9, 153.0, 740.7, 153.0, 739.5, 153.1, 737.6, 154.1};
-        vector<float> m_ramp2 = {651.5, 445.1, 651.0, 447.5, 647.0, 470.0, 643.0, 492.5, 643.0, 494.5, 643.0, 496.5, 659.3, 499.3, 675.5, 502.0, 681.6, 502.0, 687.6, 502.0, 698.5, 504.0, 709.4, 506.0, 714.0, 506.0, 718.6, 506.0, 723.0, 503.7, 727.5, 501.5, 729.7, 498.1, 732.0, 494.7, 732.0, 479.6, 732.0, 464.5, 730.1, 460.5, 728.3, 456.5, 726.4, 454.8, 724.4, 453.1, 720.7, 451.5, 717.1, 450.0, 710.4, 450.0, 703.7, 450.0, 697.1, 448.9, 690.5, 447.9, 688.5, 447.0, 686.5, 446.1, 672.5, 445.1, 658.5, 444.0, 655.3, 443.4, 652.1, 442.8, 651.5, 445.1};
-        vector<float> m_ramp2Down = {619.1, 439.4, 618.0, 440.7, 613.5, 464.1, 609.0, 487.4, 609.0, 489.7, 609.0, 492.0, 624.6, 493.5, 638.3, 495.1, 639.2, 494.2, 640.0, 493.4, 644.5, 469.9, 649.1, 446.5, 648.8, 444.0, 648.5, 441.5, 641.5, 440.8, 634.5, 440.2, 630.0, 439.1, 625.5, 438.0, 622.9, 438.0, 620.2, 438.0, 619.1, 439.4};
+        vector<float> m_ramp1 = {723.2, 151.7, 721.3, 154.5, 720.6, 156.5, 719.9, 158.5, 718.5, 166.5, 717.1, 174.5, 716.4, 187.8, 715.7, 201.1, 717.9, 203.4, 720.2, 205.8, 723.7, 206.5, 727.2, 207.1, 730.8, 209.0, 734.5, 210.9, 741.0, 212.1, 747.5, 213.2, 754.9, 214.6, 762.2, 216.0, 764.9, 216.0, 767.6, 216.0, 770.6, 213.2, 773.7, 210.5, 777.8, 201.5, 781.8, 192.5, 783.4, 186.4, 785.0, 180.2, 785.0, 176.6, 785.0, 173.0, 782.5, 170.9, 781.5, 168.8, 777.5, 166.8, 773.5, 164.7, 771.8, 163.9, 770.0, 163.0, 768.5, 163.0, 767.0, 163.0, 765.2, 162.1, 763.5, 161.1, 756.5, 158.5, 749.5, 155.9, 747.5, 154.8, 745.5, 153.6, 741.0, 151.3, 736.5, 149.1, 730.8, 149.0, 725.1, 149.0, 723.2, 151.7};
+        vector<float> m_ramp1Down = {688.6, 139.8, 688.2, 140.5, 687.6, 147.5, 687.0, 154.5, 686.0, 177.4, 685.0, 200.3, 686.7, 202.2, 688.3, 204.0, 691.2, 204.0, 694.0, 204.0, 698.3, 202.1, 702.5, 200.1, 705.0, 199.8, 707.5, 199.5, 708.2, 193.5, 708.8, 187.5, 709.9, 184.7, 711.0, 181.9, 712.0, 170.4, 713.0, 158.9, 714.5, 156.0, 716.0, 153.1, 716.0, 150.7, 716.0, 148.2, 714.8, 147.2, 713.5, 146.2, 702.9, 142.6, 692.2, 139.0, 690.7, 139.0, 689.1, 139.0, 688.6, 139.8};
+        vector<float> m_ramp2 = {737.0, 464.7, 735.5, 465.2, 732.8, 467.8, 730.0, 470.4, 730.0, 471.6, 730.0, 472.8, 728.4, 474.1, 726.8, 475.4, 725.8, 477.5, 724.9, 479.5, 722.0, 484.5, 719.1, 489.5, 716.4, 494.8, 713.8, 500.2, 714.3, 504.2, 714.8, 508.2, 717.2, 510.7, 719.5, 513.2, 723.0, 515.1, 726.5, 516.9, 733.5, 520.6, 740.5, 524.2, 748.5, 528.5, 756.5, 532.8, 763.5, 536.5, 770.5, 540.1, 777.5, 544.0, 784.5, 547.8, 788.0, 549.5, 791.4, 551.2, 795.3, 550.7, 799.3, 550.2, 803.0, 546.5, 806.8, 542.8, 812.6, 530.1, 818.4, 517.5, 818.5, 511.3, 818.5, 505.2, 816.0, 502.5, 813.5, 499.8, 806.5, 496.3, 799.5, 492.9, 791.5, 488.6, 783.5, 484.3, 777.5, 481.2, 771.5, 478.0, 758.1, 471.0, 744.7, 464.0, 741.6, 464.1, 738.5, 464.2, 737.0, 464.7};
+        vector<float> m_ramp2Down = {708.0, 450.7, 706.5, 451.3, 704.1, 453.4, 701.8, 455.5, 699.3, 460.5, 696.9, 465.5, 693.4, 471.5, 690.0, 477.5, 687.9, 481.9, 685.8, 486.3, 686.3, 490.3, 686.9, 494.3, 689.9, 497.4, 693.0, 500.5, 698.4, 500.5, 703.8, 500.5, 706.0, 498.5, 708.3, 496.5, 710.8, 492.5, 713.4, 488.5, 716.1, 483.5, 718.9, 478.5, 721.6, 473.0, 724.4, 467.5, 724.5, 462.3, 724.5, 457.0, 721.4, 453.9, 718.2, 450.8, 713.9, 450.4, 709.5, 450.1, 708.0, 450.7};
         vector<float> m_hole1 = {237.6, 49.6, 236.0, 51.1, 236.0, 73.0, 236.0, 94.9, 237.6, 96.4, 239.1, 98.0, 240.5, 98.0, 241.9, 98.0, 243.4, 96.4, 245.0, 94.9, 245.0, 73.0, 245.0, 51.1, 243.4, 49.6, 241.9, 48.0, 240.5, 48.0, 239.1, 48.0, 237.6, 49.6};
         vector<float> m_hole2 = {237.2, 578.2, 236.0, 579.4, 236.0, 600.0, 236.0, 620.6, 237.2, 621.8, 238.4, 623.0, 240.5, 623.0, 242.6, 623.0, 243.8, 621.8, 245.0, 620.6, 245.0, 600.0, 245.0, 579.4, 243.8, 578.2, 242.6, 577.0, 240.5, 577.0, 238.4, 577.0, 237.2, 578.2};
         // Access this vector by index of rampID to get the 2 collisions shapes for that ramp
